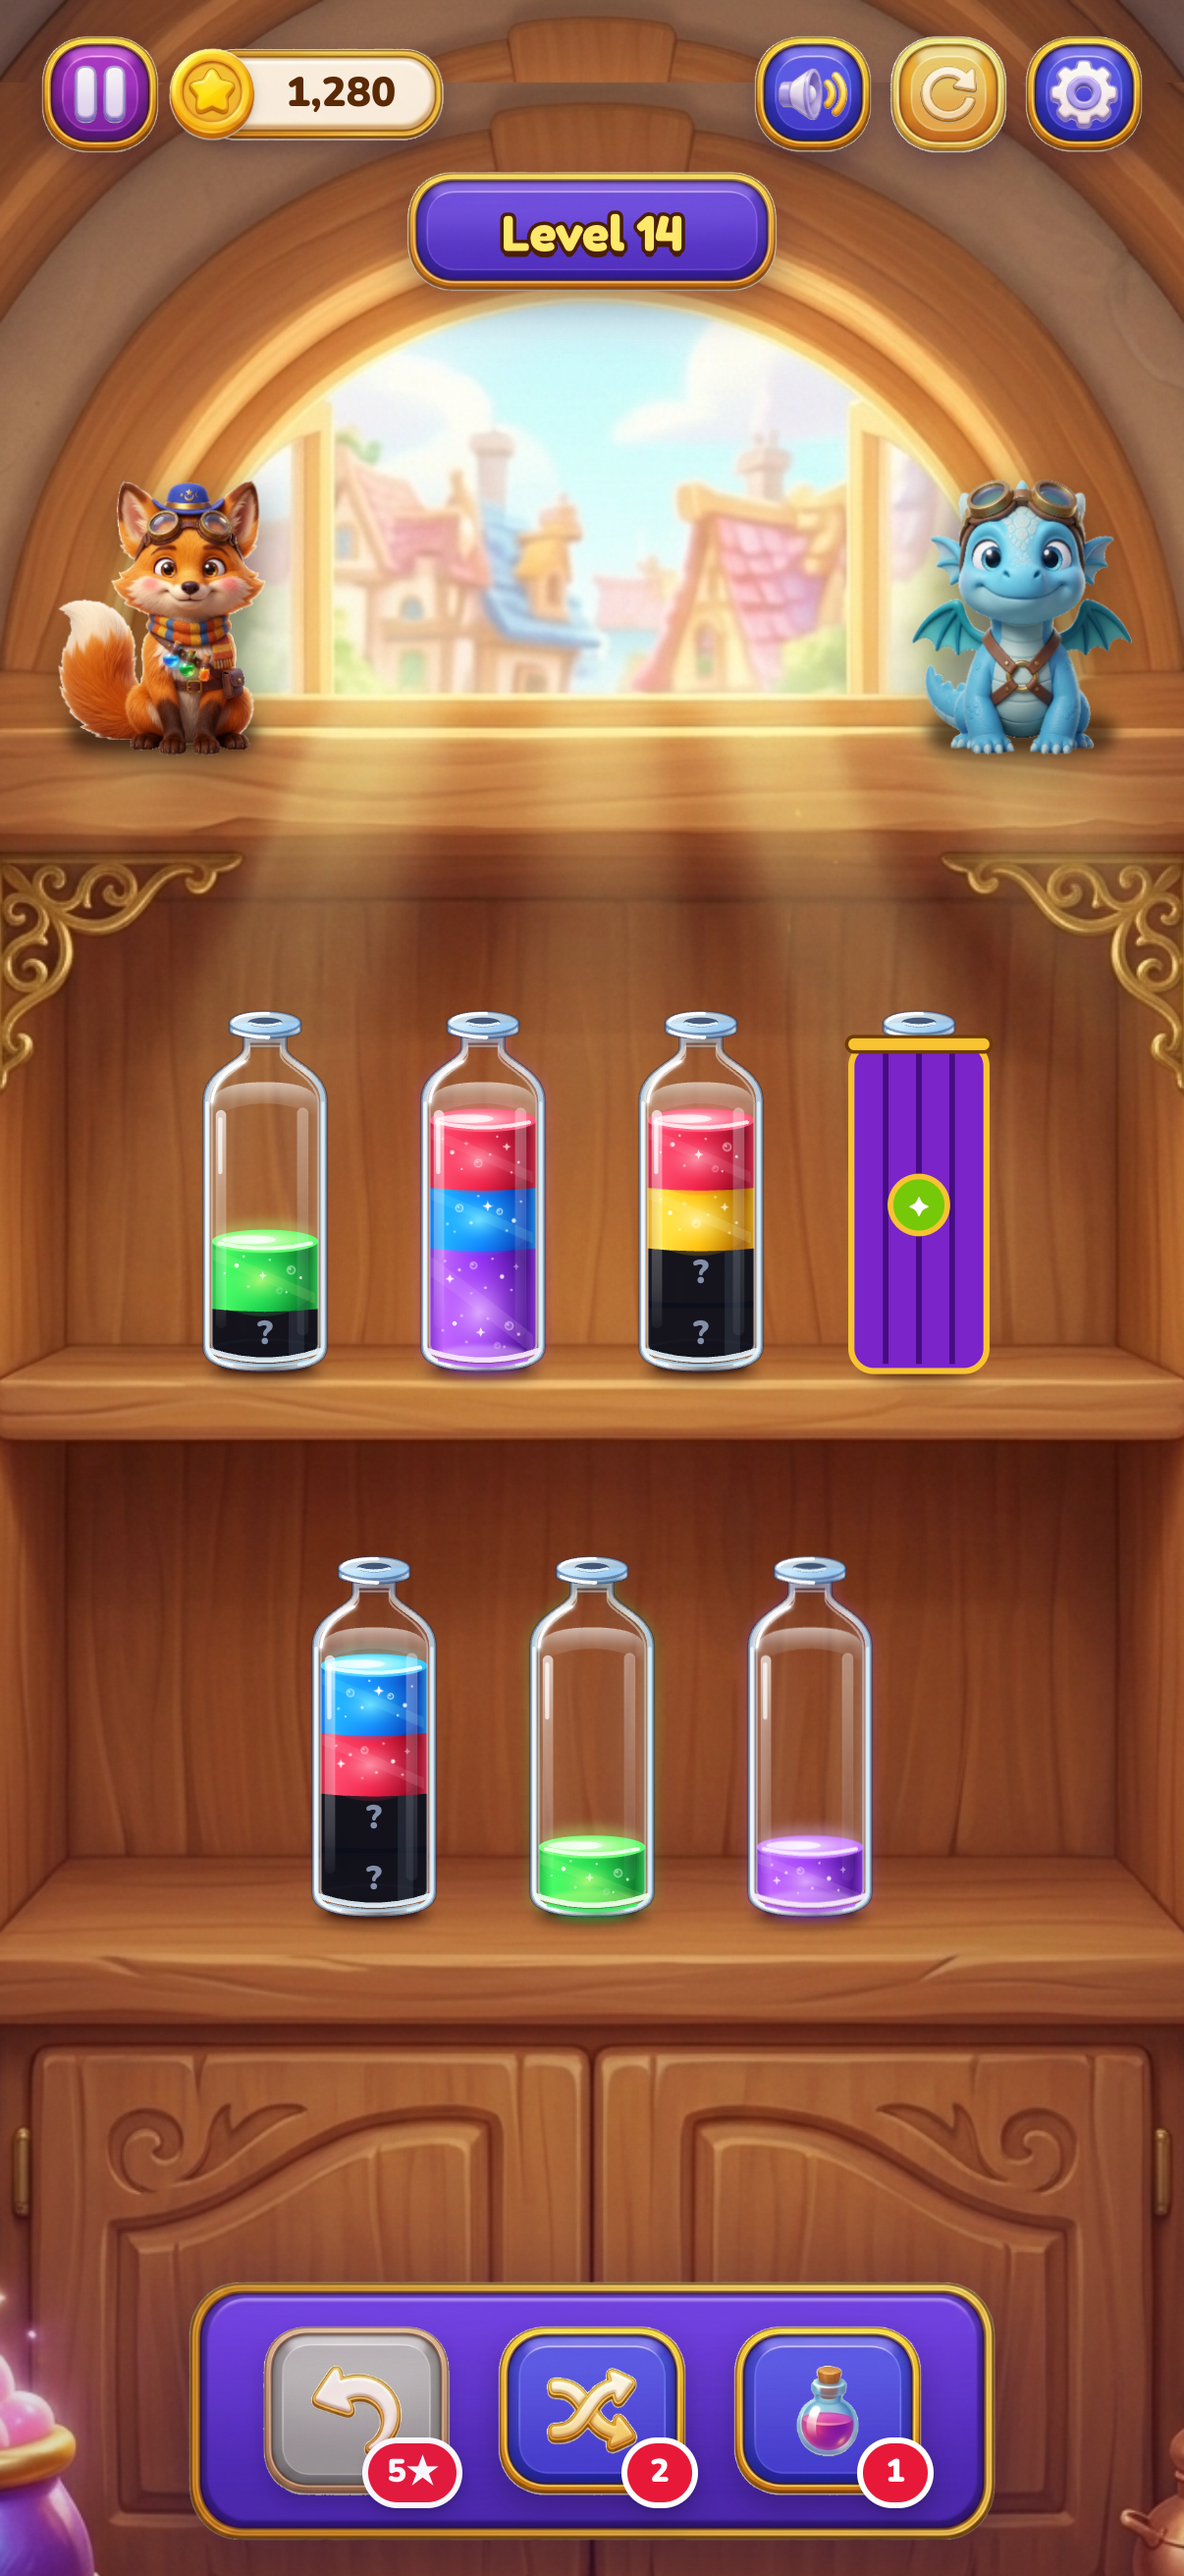
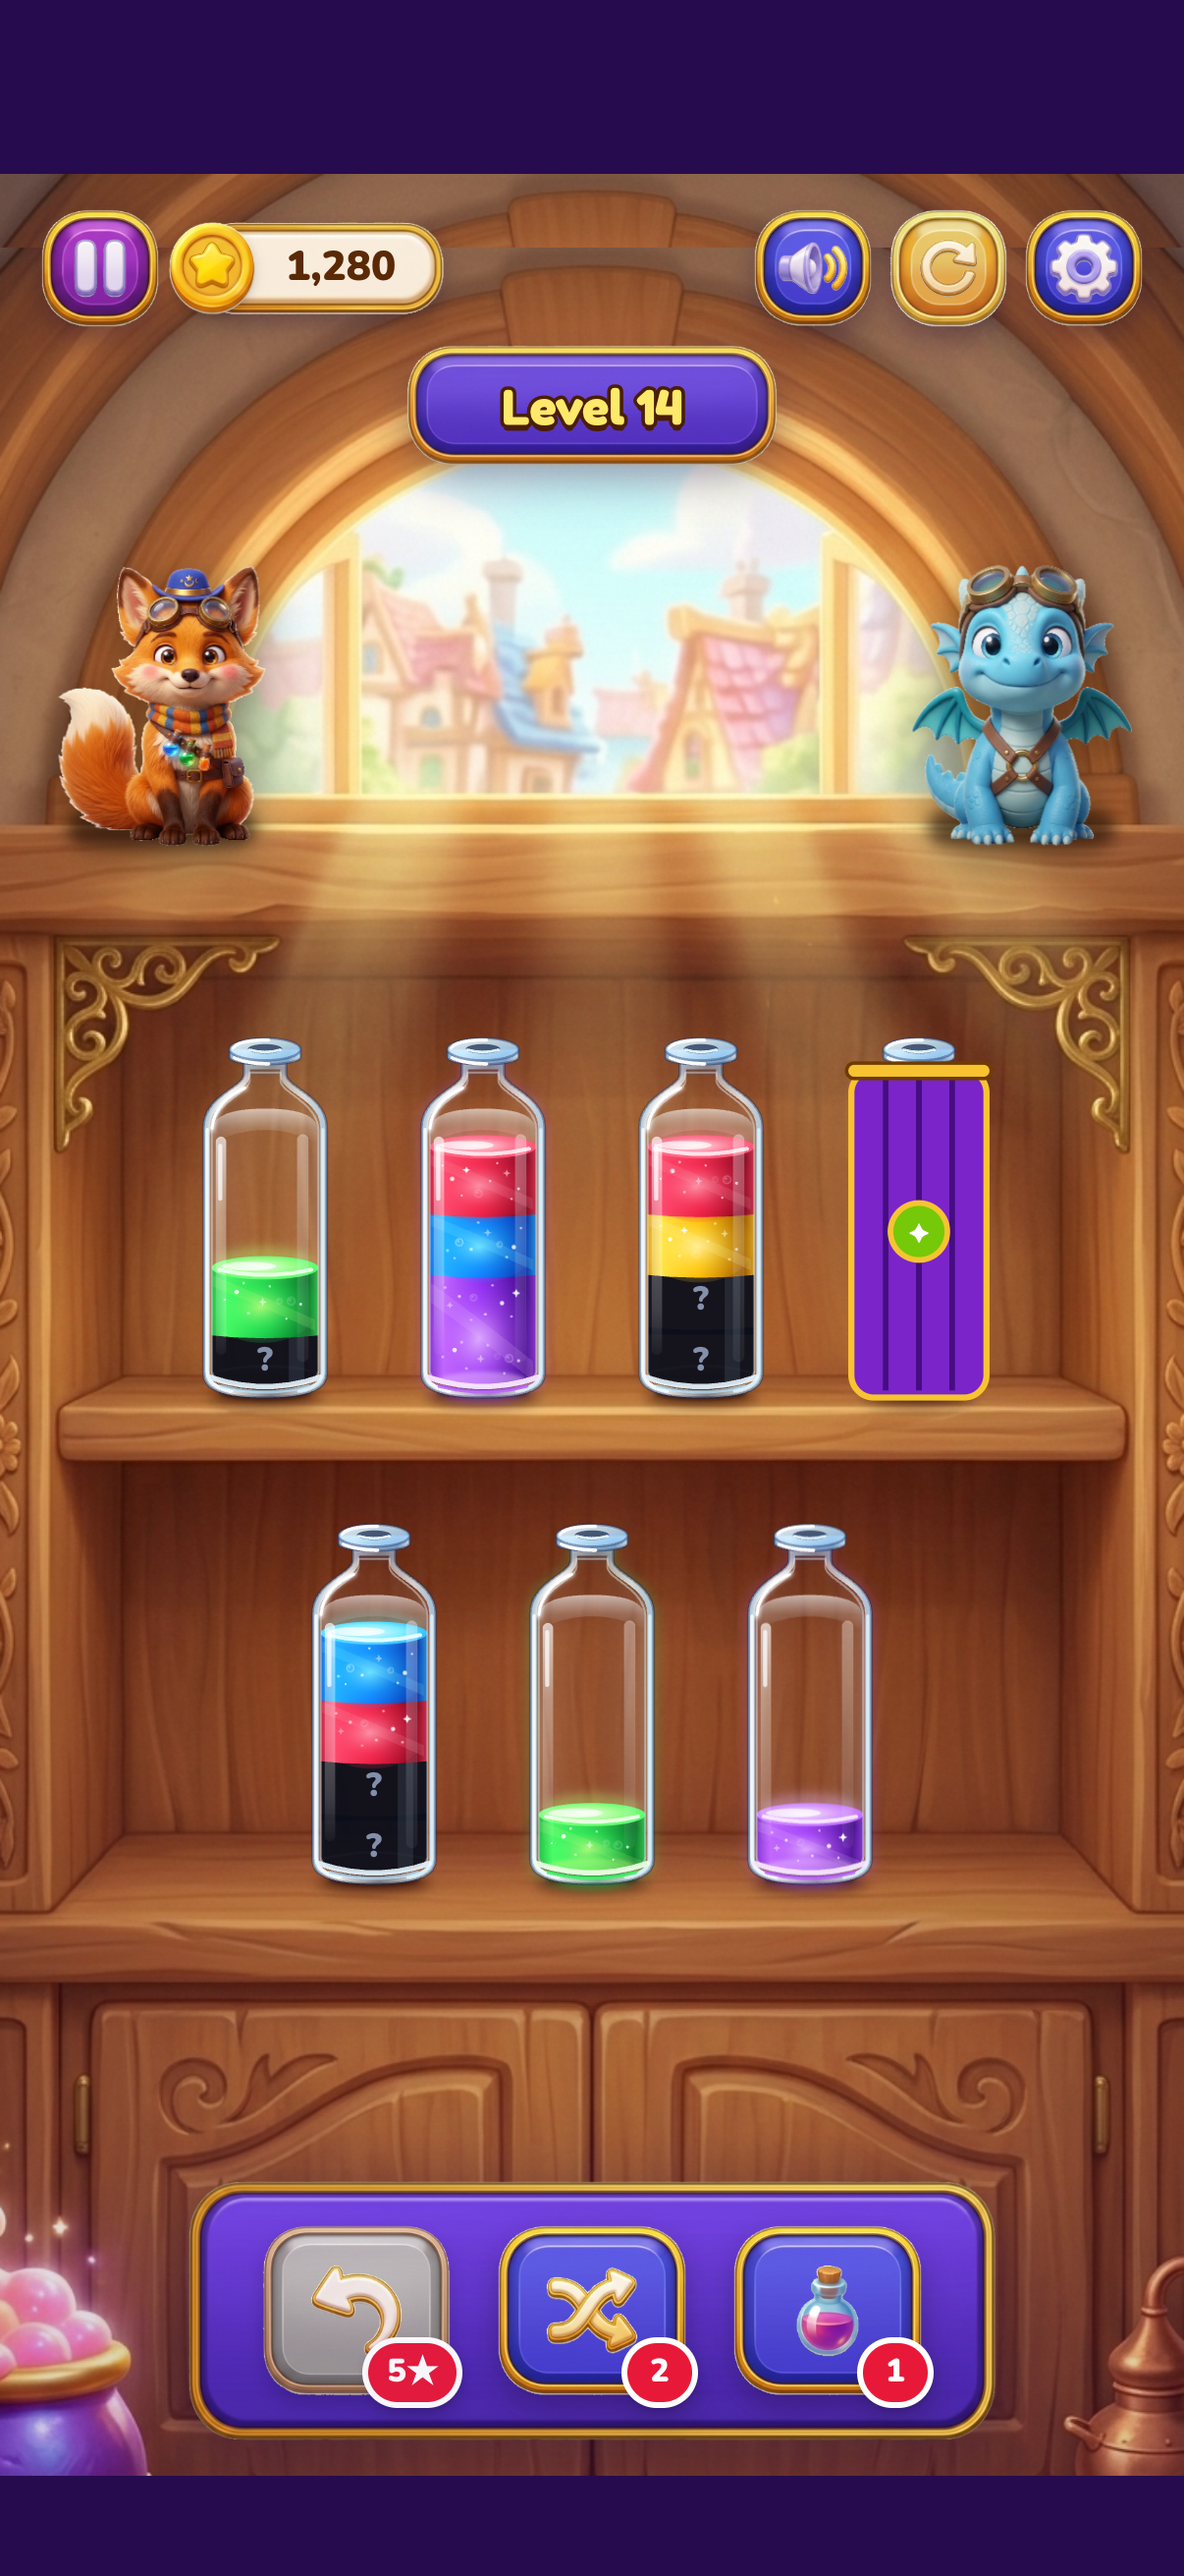
docs(appstore): 截图按真机安全区重渲染（含灵动岛留白），补第6张成就画卷

diff --git a/_marketing_assets/copywriting/04_AppStoreConnect-填表清单.md b/_marketing_assets/copywriting/04_AppStoreConnect-填表清单.md
@@ -26,7 +26,12 @@ App 截屏：2556×1179、1179×2556、2622×1206、1206×2622
   03-关卡地图.png
   04-每日签到.png
   05-商店.png
+  06-成就画卷.png   ← 可选第 6 张，画面最丰满，建议保留
 ```
+
+> 渲染时已按真机 `env(safe-area-inset-top)=59pt` / `bottom=34pt` 预留灵动岛与 Home 条空白，截图与真机显示一致（`App.tsx` 根容器 `pt-[env(safe-area-inset-top)] pb-[env(safe-area-inset-bottom)]`）。若不预留，截图顶部会比真机高约 59pt。
+>
+> 最少 3 张、最多 10 张即可提交，5~6 张是常见配置。
 
 > 同为英文版的 `桌面/PotionSort-上架截图-英文版/`（1290×2796）保留作对照，不再用于上传。
 
